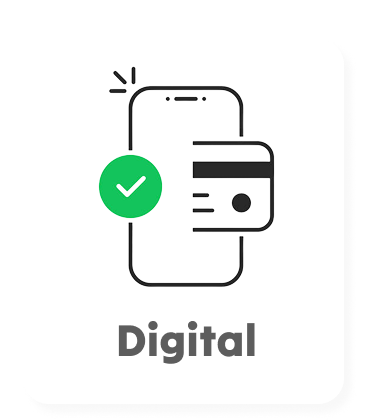
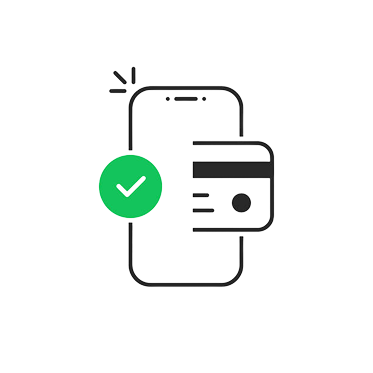
atualizações

Changed region(s): [[0.2949, 0.3244, 0.7373, 0.8847], [0.2654, 0.3539, 0.4424, 0.5898], [0.2949, 0.1475, 0.6783, 0.2949]]

diff --git a/wwwroot/css/pagamentoscartao.css b/wwwroot/css/pagamentoscartao.css
@@ -40,7 +40,7 @@ body {
 
 main {
     position: relative;
-    background: #fff;
+    background: #F6F6F6;
     border-radius: 30px 30px 0 0;
     padding: 3vh 4vw;
     margin-top: -2vh;
@@ -93,7 +93,6 @@ h2 {
     background: #f2f2f2;
     border-radius: 1rem;
     padding: 1rem;
-    cursor: pointer;
     border: 3px solid transparent;
     transition: border 0.3s, background 0.3s;
     display: flex;
@@ -160,16 +159,17 @@ h2 {
     padding: 1rem;
     border-radius: 10px;
     border: 2px solid #ccc;
-    background-color: #f0f0f0;
+    background-color: #FFFFFF;
     font-weight: bold;
     color: #333;
     cursor: pointer;
     transition: 0.3s ease;
+    font-size: 1.5rem;
 }
 
 .opcao-btn.selecionado {
     border-color: #ff6600;
-    background-color: #fff2e6;
+    background-color: #FFFFFF;
 }
 
 .opcao-btn:hover {
@@ -180,7 +180,7 @@ h2 {
     display: flex;
     justify-content: space-between;
     align-items: center;
-    background: #fff;
+    background: #FFFFFF;
     border: 2px solid #ff6600;
     padding: 1.2rem;
     border-radius: 15px;
@@ -201,4 +201,29 @@ h2 {
     background-color: #fff2e6;
     border-color: #ff6600;
     box-shadow: 0 0 10px rgba(255, 102, 0, 0.3);
+}
+
+.opcao-btn {
+    width: 30rem;
+    background: #FFFFFF;
+    border-radius: 1rem;
+    padding: 1rem;
+    cursor: pointer;
+    border: 3px solid transparent;
+    transition: border 0.3s, background 0.3s;
+    display: flex;
+    flex-direction: column;
+    align-items: center;
+    justify-content: center;
+}
+
+.caixa{
+    background: #f2f2f2;
+    border-radius: 1rem;
+    border: 3px solid transparent;
+    transition: border 0.3s, background 0.3s;
+    display: flex;
+    flex-direction: column;
+    align-items: center;
+    justify-content: center;
 }

diff --git a/wwwroot/css/pagamentos.css b/wwwroot/css/pagamentos.css
@@ -9,7 +9,7 @@
 
 body {
     margin: 0;
-    background: #fff;
+    background: #F6F6F6;
     overflow: hidden;
     height: 100vh;
     width: 100vw;
@@ -40,7 +40,7 @@ body {
 
 main {
     position: relative;
-    background: #fff;
+    background: #F6F6F6;
     border-radius: 30px 30px 0 0;
     padding: 3vh 4vw;
     margin-top: -2vh;
@@ -84,13 +84,12 @@ h2 {
     grid-template-columns: repeat(3, 1fr);
     gap: 2vh;
     justify-items: center;
-    width: 100%;
 }
 
 .forma {
     width: 15rem;
     height: 16rem;
-    background: #f2f2f2;
+    background: #FFFFFF;
     border-radius: 1rem;
     padding: 1rem;
     cursor: pointer;
@@ -103,9 +102,10 @@ h2 {
 }
 
 .forma img {
-    width: 14rem;
-    height: 14rem;
+    width: 12rem;
+    height: 12rem;
     margin-bottom: 0.8rem;
+    object-fit: contain;
 }
 
 .forma span {
